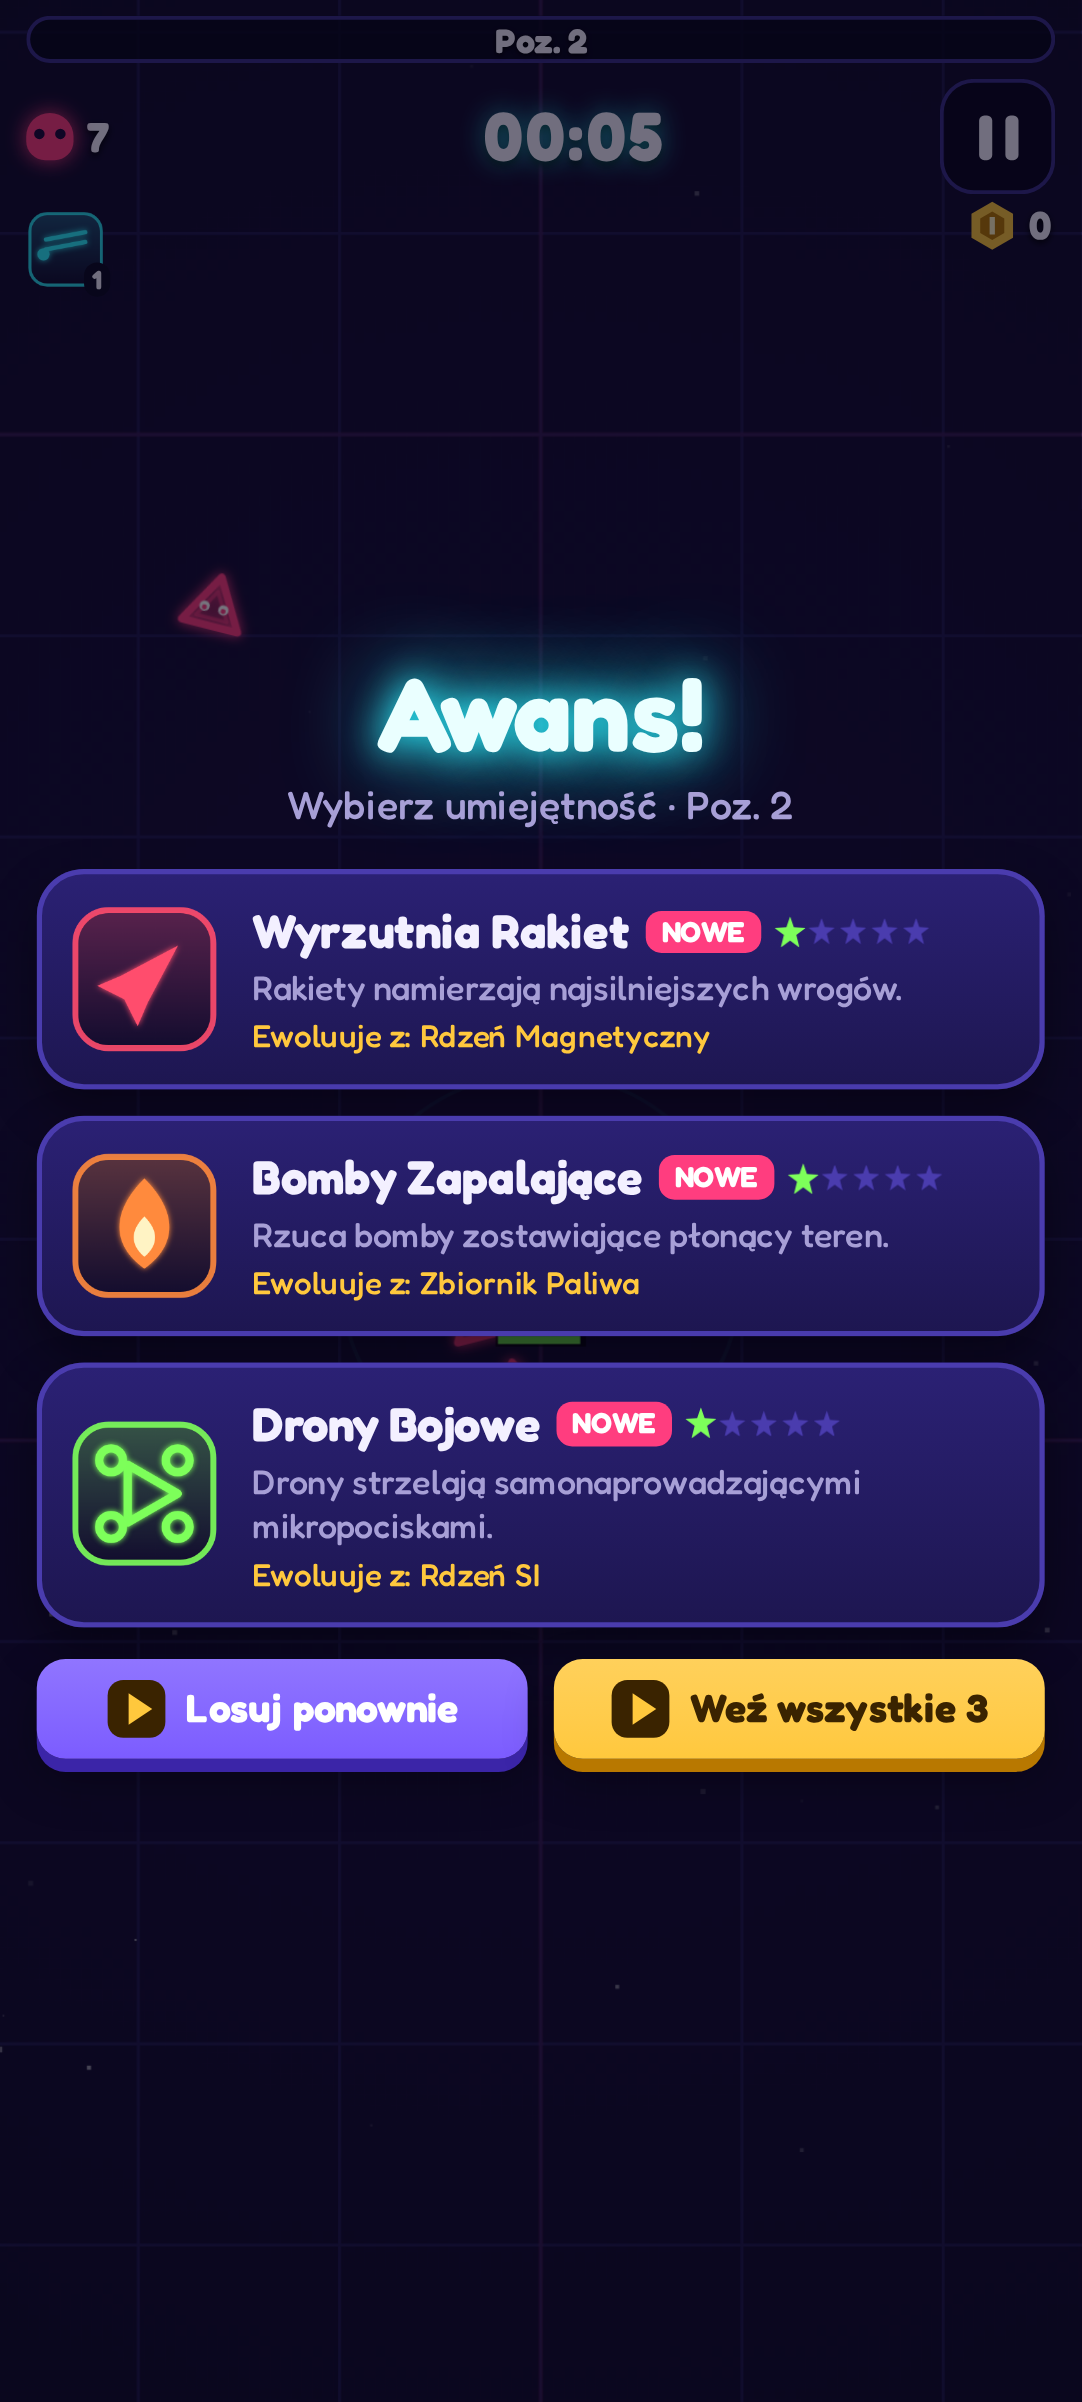
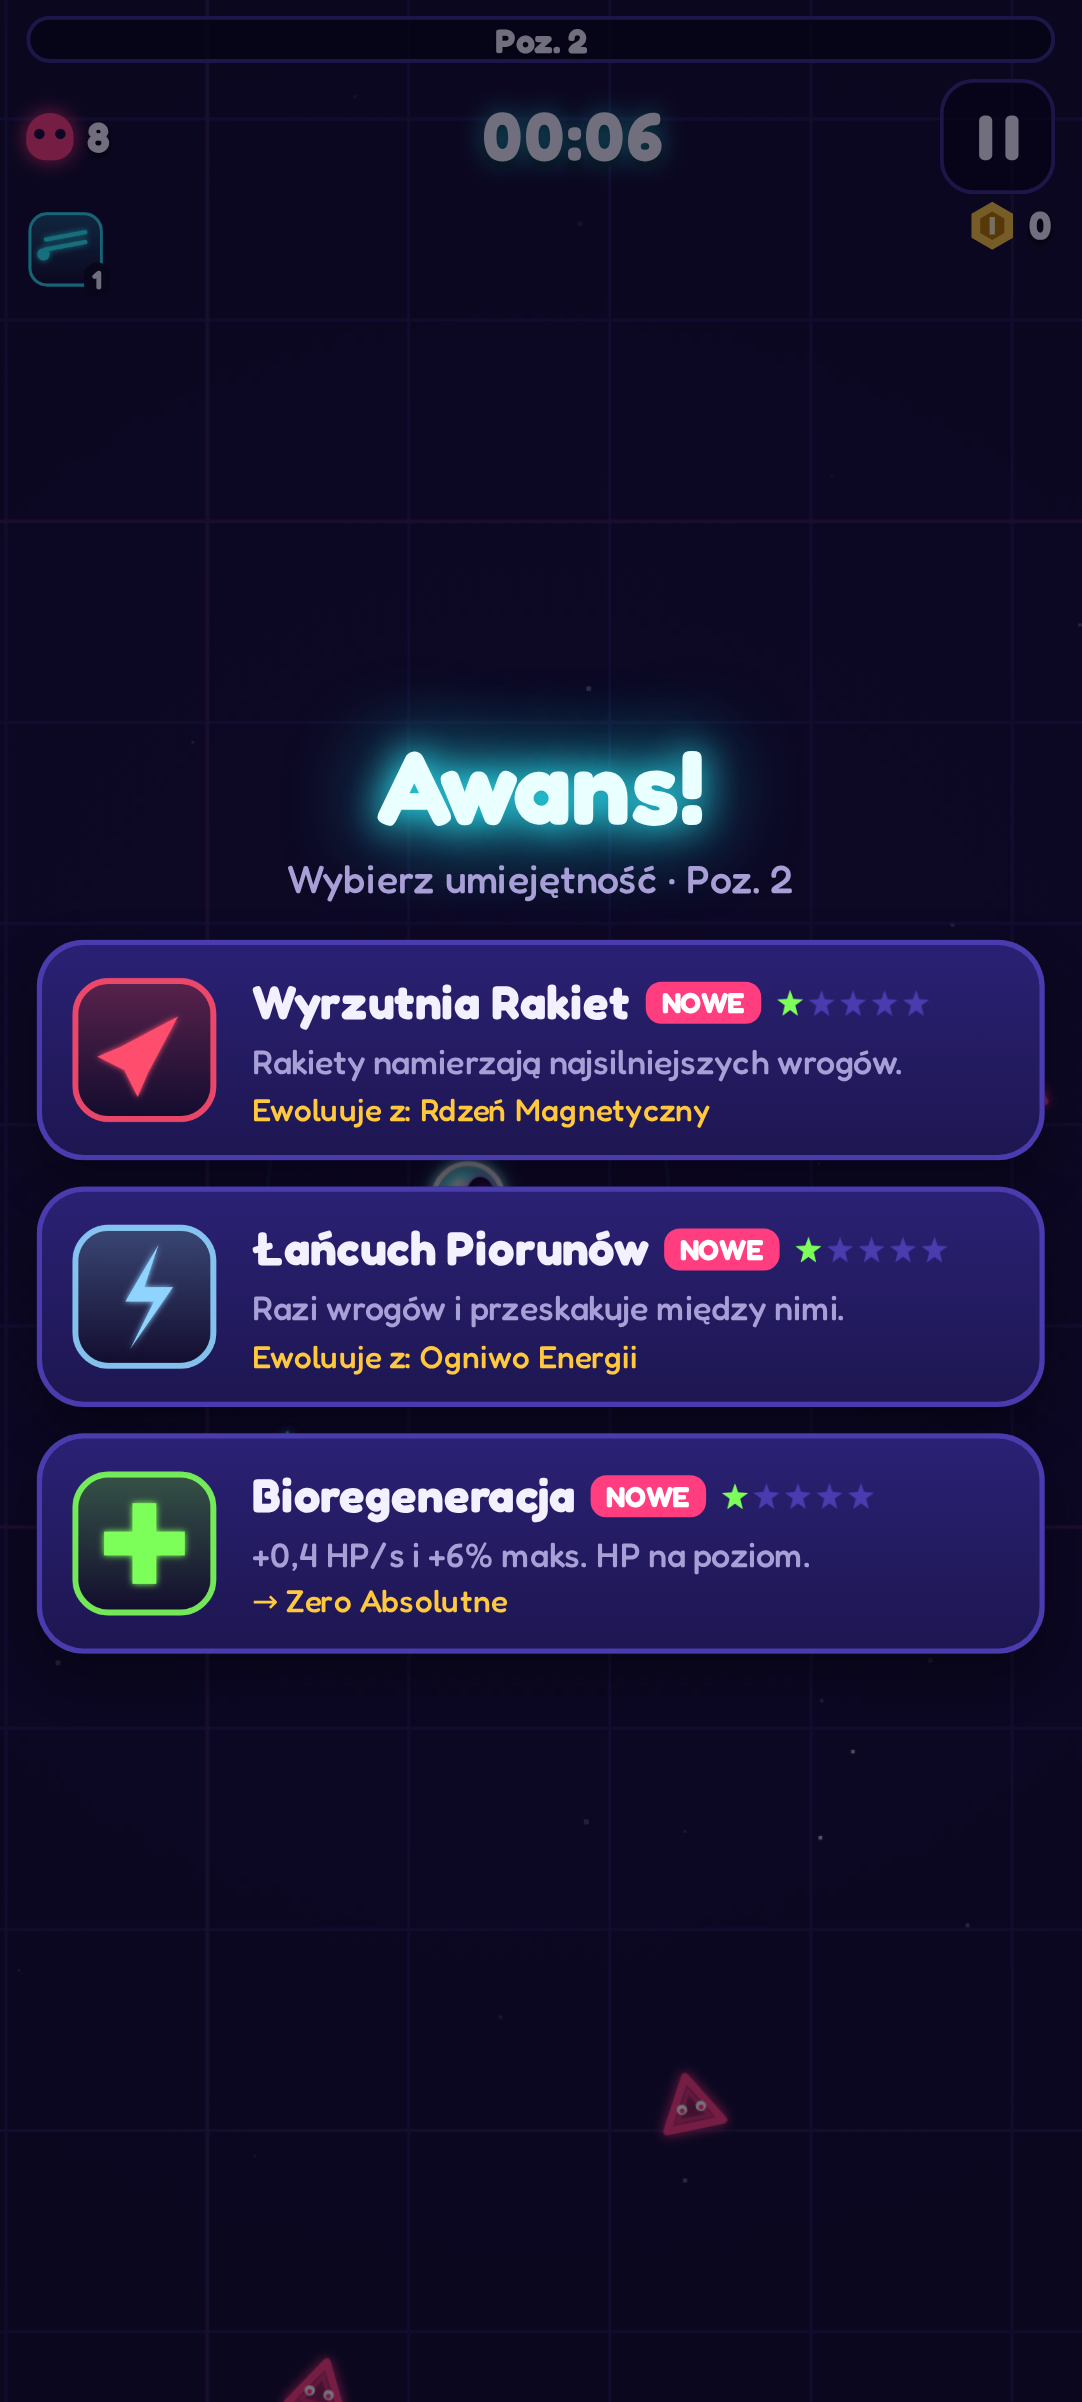
Start the ad SDK only after the first-launch tutorial
On a fresh install the tutorial stuttered while a replay after "Reset
progress" was smooth: starting the AdMob SDK and downloading the first
ads competed with the game for the CPU during the first run.

- AdsManager.setPaused(): while paused the SDK is not started and no ad
  is loaded; resuming starts whatever was deferred. The game pauses ads
  from boot until the tutorial run ends (and during a replayed tutorial).
- The tutorial run shows no ad offers (reroll, take all, open another
  crate, ad revive, double rewards, free retry), since no ads are loaded
  yet on the first launch.
- New unit test: every native method called from platform.js exists in
  GameBridge.kt and every NHNative callback used by Kotlin exists in JS.
- E2E: checks the tutorial results have no ad buttons and exercises the
  rewarded ad from the shop instead.

Claude-Session: https://claude.ai/code/session_01Ka75EQPmwjbSuzHv9pkZtb

diff --git a/game/js/ui/run-ui.js b/game/js/ui/run-ui.js
@@ -158,8 +158,9 @@
       const w = this.world;
       const choices = w.rollChoices(3);
       A.play('card');
-      const canReroll = w.rerollsUsed < C.ADS.rerollPerRun;
-      const canAll = w.takeAllUsed < C.ADS.takeAllPerRun && choices.filter((c) => c.kind === 'weapon' || c.kind === 'passive').length === 3 && w.fitsAll(choices);
+      // no ad offers in the tutorial run (the ad SDK is not started yet on the first launch)
+      const canReroll = !w.tutorial && w.rerollsUsed < C.ADS.rerollPerRun;
+      const canAll = !w.tutorial && w.takeAllUsed < C.ADS.takeAllPerRun && choices.filter((c) => c.kind === 'weapon' || c.kind === 'passive').length === 3 && w.fitsAll(choices);
       const m = UI.modal({
         cls: 'levelup', raw: true, dismiss: false,
         html: '<div style="width:100%;max-width:420px;display:flex;flex-direction:column;align-items:center">' +
@@ -240,7 +241,7 @@
         }
         actions.hidden = false;
         const again = actions.querySelector('[data-x="again"]');
-        again.hidden = extraUsed;
+        again.hidden = extraUsed || w.tutorial;
       };
       const anim = m.el.querySelector('.crate-anim');
       anim.animate([{ transform: 'rotate(0)' }, { transform: 'rotate(-10deg) scale(1.05)' }, { transform: 'rotate(10deg) scale(1.1)' }, { transform: 'rotate(-8deg) scale(1.15)' }, { transform: 'scale(1.5)', opacity: 0 }], { duration: 850, easing: 'ease-in' });
@@ -297,7 +298,7 @@
     // ----------------------------------------------------------------- revive
     showRevive() {
       const w = this.world, G = NH.G, s = G.state;
-      const canAd = w.adRevives < C.REVIVE.maxAdRevives;
+      const canAd = !w.tutorial && w.adRevives < C.REVIVE.maxAdRevives;
       const canGems = w.gemRevives < C.REVIVE.maxGemRevives;
       const canFree = w.freeRevives > 0;
       if (!canAd && !canGems && !canFree) { setTimeout(() => G.endRun(false), 900); return; }
@@ -356,6 +357,7 @@
     showResults(result, rewards) {
       const G = NH.G, s = G.state;
       const win = result.cleared;
+      const tutorial = !!(this.world && this.world.tutorial); // ads are only just starting: no ad buttons yet
       const itemsPreview = rewards.items.map((it) => ({ uid: 0, id: it.id, rarity: it.rarity, level: 1 }));
       let claimed = false;
       const m = UI.modal({
@@ -367,9 +369,9 @@
           '<div><span class="small muted">' + t('runLevel') + '</span><b>' + result.level + '</b></div></div>' +
           '<div class="section-title" style="margin:6px 2px">' + t('rewards') + '</div>' +
           '<div id="res-rewards">' + UI.rewardChipsHTML({ coins: rewards.coins, scrap: rewards.scrap, xp: rewards.xp, items: itemsPreview }) + '</div>' +
-          '<div class="modal-actions">' + UI.adBtn(t('doubleRewards'), 'data-x="double"', 'btn-wide btn-big shine') +
-          '<button class="btn btn-wide ' + (win ? 'btn-lime' : 'btn-ghost') + '" data-x="claim">' + t('continue') + '</button>' +
-          (!win ? UI.adBtn(t('retryFree'), 'data-x="retry"', 'btn-wide btn-sm btn-violet') : '') + '</div>',
+          '<div class="modal-actions">' + (tutorial ? '' : UI.adBtn(t('doubleRewards'), 'data-x="double"', 'btn-wide btn-big shine')) +
+          '<button class="btn btn-wide ' + (win || tutorial ? 'btn-lime' : 'btn-ghost') + '" data-x="claim">' + t('continue') + '</button>' +
+          (!win && !tutorial ? UI.adBtn(t('retryFree'), 'data-x="retry"', 'btn-wide btn-sm btn-violet') : '') + '</div>',
       });
       m.el.addEventListener('click', async (e) => {
         const x = e.target.closest('[data-x]');

diff --git a/android/app/src/main/java/com/neonhorde/survivor/AdsManager.kt b/android/app/src/main/java/com/neonhorde/survivor/AdsManager.kt
@@ -49,6 +49,11 @@ class AdsManager(
     private val consent: ConsentInformation = UserMessagingPlatform.getConsentInformation(activity)
     private val sdkStarted = AtomicBoolean(false)
 
+    // While paused (the first-launch tutorial) the SDK is not started and no ad is loaded: starting the SDK and
+    // downloading the first ads competes with the game for the CPU and made the tutorial stutter.
+    private var paused = false
+    private var sdkWanted = false
+
     /** True once the consent flow has finished (form answered, not required, or failed). */
     @Volatile var consentResolved = false
         private set
@@ -118,7 +123,19 @@ class AdsManager(
         }
     }
 
+    /** Main thread only. */
+    fun setPaused(value: Boolean) {
+        if (paused == value) return
+        paused = value
+        if (value) return
+        if (sdkWanted) startSdk()
+        loadRewarded()
+        loadInterstitial()
+        if (bannerWanted && sdkReady) showBanner()
+    }
+
     private fun startSdk() {
+        if (paused) { sdkWanted = true; return }
         if (!sdkStarted.compareAndSet(false, true)) return
         // Initialising on a background thread avoids ANRs on slow devices.
         Thread {
@@ -139,7 +156,7 @@ class AdsManager(
     fun isRewardedReady(): Boolean = rewarded != null
 
     private fun loadRewarded() {
-        if (!sdkReady || destroyed || rewarded != null || rewardedLoading) return
+        if (paused || !sdkReady || destroyed || rewarded != null || rewardedLoading) return
         rewardedLoading = true
         RewardedAd.load(activity, BuildConfig.ADMOB_REWARDED_ID, AdRequest.Builder().build(), object : RewardedAdLoadCallback() {
             override fun onAdLoaded(ad: RewardedAd) {
@@ -188,7 +205,7 @@ class AdsManager(
     // ------------------------------------------------------------- interstitial
 
     private fun loadInterstitial() {
-        if (!sdkReady || destroyed || interstitial != null || interstitialLoading) return
+        if (paused || !sdkReady || destroyed || interstitial != null || interstitialLoading) return
         interstitialLoading = true
         InterstitialAd.load(activity, BuildConfig.ADMOB_INTERSTITIAL_ID, AdRequest.Builder().build(), object : InterstitialAdLoadCallback() {
             override fun onAdLoaded(ad: InterstitialAd) {
@@ -228,7 +245,7 @@ class AdsManager(
 
     fun setBannerVisible(visible: Boolean) {
         bannerWanted = visible
-        if (!sdkReady) return
+        if (!sdkReady || paused) return
         if (visible) showBanner() else hideBanner()
     }
 

diff --git a/tests/e2e/smoke.js b/tests/e2e/smoke.js
@@ -91,15 +91,24 @@ const sleep = (ms) => new Promise((r) => setTimeout(r, ms));
   await page.waitForSelector('.result-title', { timeout: 15000 });
   await sleep(600);
   await shot('06-results');
-  // double rewards via simulated rewarded ad
-  await page.locator('[data-x="double"]').tap();
+  // the tutorial run offers no ad buttons (the ad SDK only starts after it)
+  if (await page.locator('.modal [data-x="double"], .modal [data-x="retry"]').count()) throw new Error('ad buttons shown in the tutorial results');
+  await page.locator('[data-x="claim"]').tap();
+  await sleep(2500);
+  // interstitial is suppressed for the first runs; close any modal that appears
+  for (let i = 0; i < 3; i++) { const c = page.locator('.modal [data-close]').first(); if (await c.isVisible().catch(() => false)) { await c.tap(); await sleep(300); } }
+  // rewarded ad (simulated in the browser): free gems in the shop
+  await page.locator('[data-tab="shop"]').tap();
+  await sleep(500);
+  await page.locator('[data-act="ad-gems"]').tap();
   await page.waitForSelector('.web-ad', { timeout: 5000 });
   await shot('07-web-ad');
   await sleep(3300);
   await page.locator('.web-ad-close').tap();
-  await sleep(2500);
-  // interstitial is suppressed for the first runs; close any modal that appears
+  await sleep(1200);
   for (let i = 0; i < 3; i++) { const c = page.locator('.modal [data-close]').first(); if (await c.isVisible().catch(() => false)) { await c.tap(); await sleep(300); } }
+  await page.locator('[data-tab="battle"]').tap();
+  await sleep(700);
   await shot('08-lobby-battle');
   for (const tab of ['shop', 'gear', 'talents', 'events']) {
     await page.locator('[data-tab="' + tab + '"]').tap();

diff --git a/tests/unit/platform.test.js b/tests/unit/platform.test.js
@@ -64,3 +64,19 @@ test('the first run waits for the ad-consent flow, with a timeout', async () => 
   assert.ok(Date.now() - t0 >= 190, 'gives up after the timeout (e.g. no network)');
   await withNative({ isConsentResolved: () => true }).whenConsentResolved(5000); // already resolved: no wait
 });
+
+test('JS ↔ Android bridge names match (platform.js ↔ GameBridge.kt / MainActivity.kt)', () => {
+  const fs = require('fs');
+  const root = path.join(__dirname, '..', '..');
+  const js = fs.readFileSync(FILE, 'utf8');
+  const kt = (f) => fs.readFileSync(path.join(root, 'android/app/src/main/java/com/neonhorde/survivor', f), 'utf8');
+  const bridge = kt('GameBridge.kt');
+  const exported = new Set([...bridge.matchAll(/@JavascriptInterface\s+fun (\w+)\(/g)].map((m) => m[1]));
+  const called = new Set([...js.matchAll(/this\.(?:call|bridge)\('(\w+)'/g)].map((m) => m[1]));
+  for (const name of called) assert.ok(exported.has(name), 'GameBridge.kt lacks @JavascriptInterface fun ' + name);
+  const kotlin = kt('MainActivity.kt') + bridge;
+  const callbacks = new Set([...kotlin.matchAll(/NHNative\.(\w+)\(/g)].map((m) => m[1]));
+  const NHNative = withNative({});
+  assert.ok(NHNative); // loaded
+  for (const name of callbacks) assert.equal(typeof globalThis.NHNative[name], 'function', 'NHNative.' + name + ' is missing in platform.js');
+});

diff --git a/game/js/main.js b/game/js/main.js
@@ -45,6 +45,8 @@
       for (const el of document.querySelectorAll('[data-i18n]')) el.textContent = t(el.dataset.i18n);
       M.ensureDaily(this.state, now, this.rng);
       M.updateEnergy(this.state, now);
+      // first launch: keep the ad SDK quiet until the tutorial run is over (it made the tutorial stutter)
+      if (!this.state.tutorial.firstRunDone) PF.pauseAds(true);
 
       this.canvas = $('#game-canvas');
       this.renderer = new NH.Renderer(this.canvas);
@@ -172,6 +174,7 @@
         onBoss: (e) => NH.RunUI.bossBar(e),
       }, this.renderer);
       NH.RunUI.attach(w, !!opts.tutorial);
+      if (opts.tutorial) PF.pauseAds(true);
       UI.show('screen-game');
       PF.setBanner(false);
       PF.keepScreenOn(true);
@@ -204,6 +207,7 @@
       const rewards = M.runRewards(this.state, result, this.rng);
       this.mode = 'results';
       this.state.tutorial.firstRunDone = true;
+      PF.pauseAds(false);
       PF.keepScreenOn(false);
       PF.setBanner(true);
       A.setMusicMode('menu');

diff --git a/game/js/core/platform.js b/game/js/core/platform.js
@@ -74,6 +74,9 @@
       return this.webAdOverlay('interstitial', placement).then((r) => { this.adBusy = false; return r; });
     },
 
+    /** Holds the ad SDK start and ad downloads (Android) while the first-launch tutorial runs. */
+    pauseAds(paused) { this.call('setAdsPaused', !!paused); },
+
     setBanner(visible) {
       if (native) { this.call('setBannerVisible', !!visible); return; }
       const el = document.getElementById('web-banner');

diff --git a/android/app/src/main/java/com/neonhorde/survivor/GameBridge.kt b/android/app/src/main/java/com/neonhorde/survivor/GameBridge.kt
@@ -48,6 +48,9 @@ class GameBridge(private val activity: MainActivity) {
     fun setBannerVisible(visible: Boolean) = ui { activity.ads.setBannerVisible(visible) }
 
     @JavascriptInterface
+    fun setAdsPaused(paused: Boolean) = ui { activity.ads.setPaused(paused) }
+
+    @JavascriptInterface
     fun isConsentResolved(): Boolean = activity.isConsentResolved()
 
     @JavascriptInterface

diff --git a/docs/PROGRESS.md b/docs/PROGRESS.md
@@ -10,11 +10,12 @@
   blokada wydania z testowymi ID reklam. Kotlin sprawdzony kompilatorem pod kątem składni
   (pełnej kompilacji nie da się zrobić w chmurze — Android SDK jest zablokowany przez politykę sieci).
 - Balans: symulator `tools/simulate.js`; pierwszy level-up po ~6–10 s, bramki rozdziałów 3/7/10.
-- Testy: 46 jednostkowych (`npm test`), E2E Playwright na emulowanym Pixelu 7 (`npm run e2e`).
+- Testy: 48 jednostkowych (`npm test`), E2E Playwright na emulowanym Pixelu 7 (`npm run e2e`).
 - Audyt przed publikacją (09.2026): naprawione m.in. czarny ekran pierwszej rundy w WebView, zamrożone
   reklamy pełnoekranowe, podwójne nagrody przy szybkim klikaniu w trakcie reklamy, gubione skrzynie elit,
   darmowe poziomy przy łączeniu ekwipunku, rakiety gubiące cel, polskie litery w foncie, górny pasek
-  na telefonach 360 dp, `singleTask` zamykający reklamy, cisza nocna dla powiadomień.
+  na telefonach 360 dp, `singleTask` zamykający reklamy, cisza nocna dla powiadomień, zamulanie samouczka
+  przy pierwszym uruchomieniu (SDK reklam startuje dopiero po samouczku; w samouczku brak przycisków reklam).
 - Materiały do Google Play: ikona 512, grafika 1024×500, 7 zrzutów 9:16 × EN/PL (`docs/store/`),
   teksty karty (`docs/PLAY_STORE_LISTING.md`), AdMob (`docs/ADMOB_SETUP.md`), checklista (`docs/RELEASE_CHECKLIST.md`).
 

diff --git a/README.md b/README.md
@@ -74,7 +74,7 @@ docs/                 GDD, konfiguracja AdMob, karta sklepu, checklista, zrzuty 
 
 ## Testy i narzędzia
 ```bash
-npm test                 # 46 testów jednostkowych: rdzeń, zapis, meta-progresja, symulacja
+npm test                 # 48 testów jednostkowych: rdzeń, zapis, meta-progresja, symulacja
 npm run sim              # symulacja balansu: bot przechodzi rozdziały na różnych etapach rozwoju
 npm run e2e              # Playwright: samouczek, level-up, boss, wyniki, reklama, lobby (+ zrzuty w docs/screenshots)
 npm run store-assets     # ikona 512, grafika 1024×500 i 14 zrzutów 9:16 (EN/PL) do docs/store
